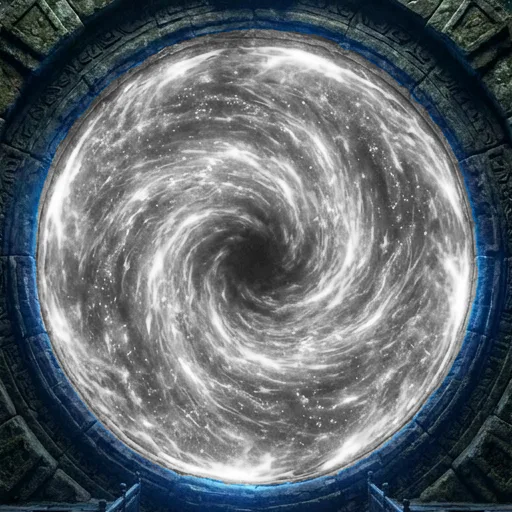
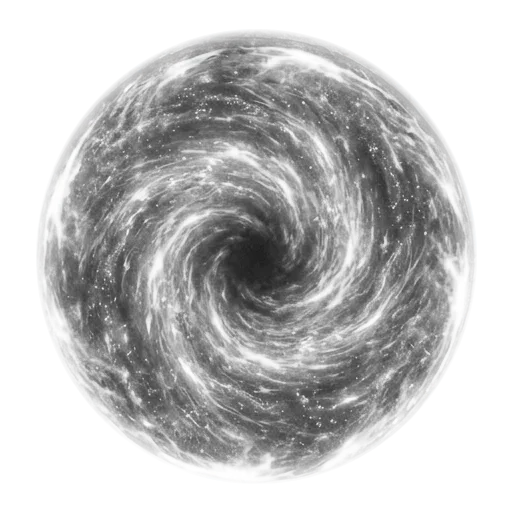
fix(portal-room): bake disc-edge alpha into vortex crops; add spaceship flyby
- The vortex overlay's CSS mask used radial-gradient(circle, ...) whose
  default size is farthest-corner, so the fade radius reached the crop's
  corners — the crop's baked-in blue rim and square bottom edge were
  never masked, leaving a blue band + hard bar under the bottom arc of
  every recolored portal (white/noir/red/orange/green/pink/purple).
- Fix: bake an elliptical alpha feather (rx 221 / ry 228, exactly at the
  disc edge) into the vortex webps themselves and drop the CSS mask.
  Blue keeps its raw square crop — its chamber is the untouched
  original, so the square blends invisibly. Crops are also ~25% smaller.
- New SpaceshipFlyby layer in PortalChamber: a tiny glowing ship
  silhouette drifts across the upper starfield every ~42s (28s pass +
  14s gap), with a faint teal engine trail. Rendered between the chamber
  and the vortex, scales with the fly-through, skipped entirely under
  prefers-reduced-motion.

diff --git a/src/components/portal/PortalChamber.tsx b/src/components/portal/PortalChamber.tsx
@@ -12,6 +12,40 @@ const VORTEX_CENTER = { x: 1346, y: 539 };
 
 const pct = (v: number, total: number) => `${(v / total) * 100}%`;
 
+/** A tiny ship silhouette that drifts across the distant starfield on a slow
+ *  loop — enough motion to make the chamber feel alive, never busy. The
+ *  flight path stays in the upper sky so it reads as far behind the gate. */
+function SpaceshipFlyby() {
+  return (
+    <motion.div
+      aria-hidden="true"
+      className="pointer-events-none absolute"
+      style={{ top: "11%", width: "3%", opacity: 0.55 }}
+      initial={{ left: "-5%" }}
+      animate={{ left: ["-5%", "105%"], y: [0, -10, 4, 0], rotate: -3 }}
+      transition={{
+        duration: 28,
+        ease: "linear",
+        repeat: Infinity,
+        repeatDelay: 14,
+      }}
+    >
+      <svg viewBox="-16 0 80 20" className="h-auto w-full">
+        <defs>
+          <linearGradient id="ship-trail" x1="0" y1="0" x2="1" y2="0">
+            <stop offset="0" stopColor="#62f3e4" stopOpacity="0" />
+            <stop offset="1" stopColor="#62f3e4" stopOpacity="0.8" />
+          </linearGradient>
+        </defs>
+        <rect x="-16" y="10.4" width="18" height="1.4" rx="0.7" fill="url(#ship-trail)" />
+        <path d="M2 12 L40 8 L60 11 L40 15 Z" fill="#aebfc9" opacity="0.9" />
+        <path d="M38 9 L46 3.5 L50 9.5 Z" fill="#8fa3ad" opacity="0.85" />
+        <circle cx="53" cy="11" r="1.5" fill="#d7fbf6" />
+      </svg>
+    </motion.div>
+  );
+}
+
 type Props = {
   album: PortalAlbum;
   flying: boolean;
@@ -61,6 +95,9 @@ export function PortalChamber({ album, flying, reducedMotion }: Props) {
           />
         </AnimatePresence>
 
+        {/* Ambient life: a distant ship crossing the upper starfield. */}
+        {!reducedMotion && <SpaceshipFlyby />}
+
         {/* Vortex energy — crossfades with the chamber between portals. */}
         <AnimatePresence>
           <motion.img
@@ -78,10 +115,9 @@ export function PortalChamber({ album, flying, reducedMotion }: Props) {
               top: pct(VORTEX_CROP.y, PLATE.h),
               width: pct(VORTEX_CROP.size, PLATE.w),
               height: pct(VORTEX_CROP.size, PLATE.h),
-              // Fade out at the disc edge (r≈89% of the crop) so the crop's
-              // baked-in blue rim never covers the chamber's recolored rim.
-              maskImage: "radial-gradient(circle, #000 74%, transparent 88%)",
-              WebkitMaskImage: "radial-gradient(circle, #000 74%, transparent 88%)",
+              // The disc-edge feather is baked into the webp's alpha channel
+              // (elliptical, exactly at the disc edge) — CSS masks proved
+              // unreliable here (radial-gradient sizes to farthest-corner).
             }}
           />
         </AnimatePresence>

diff --git a/CLAUDE.md b/CLAUDE.md
@@ -166,7 +166,7 @@ CRUD for albums/tracks/artists/instrumentals/discounts; WAV vault streaming (5mi
 16. **Desktop Now Playing screen** — Full-screen overlay toggled by `store.fullScreenOpen`. Opened from the PlayerBar "Now Playing" button (desktop) or the track info area (mobile). Displays album art, accent-themed gradient background, waveform, lyrics toggle, and queue drawer.
 17. **Album detail modals** — `AlbumDetail` has two accent-colored modals: (a) **Credits modal** — `BookOpen` button, only rendered when the album has credits; shows all production credits per track. (b) **Media gallery modal** — `Images` button always visible; lazy-fetches `GET /api/albums/[slug]/media` on first open; `AlbumMediaGallery` component supports swipe, keyboard nav, thumbnail strip, and captions. Both modals use the album's `accentColor` for borders, glows, and accent bars.
 18. **Album media admin** — `AlbumsManager` has a "Media" button per album row that fetches existing entries from `GET /api/admin/album-media?album_id=` and opens `AlbumMediaManager` inline. Upload via Cloudinary; drag-to-reorder; delete. Media stored in `album_media` table.
-19. **Portal Room landing (`/`)** — Immersive stargate-chamber landing experience built from pre-rendered art (no WebGL). `page.tsx` fetches published albums server-side, validates them through `toPortalAlbums()` (`src/lib/portalData.ts` — hex-color validation, cover via `getAlbumCover(cover, 1024)`, drops albums without covers, assigns each album a vortex plate via `nearestVortex(accentColor)` hue matching), and renders `PortalRoomClient` (`src/components/portal/`). **Assets** (`public/portals/`): `chamber-{blue,red,orange,green,purple,pink,mono}.webp` are 2048px widescreen chamber plates — the original 928×1152 "Portals" art generatively expanded to 2688×1152 with Adobe Firefly (exact original center composited back), then per-color variants produced with the Adobe Photoshop API: a locally built mask (full platform below the machinery horizon + blue-glow-selective band over the ring/dome) drives a masked HSL hue rotation so the platform's hue and light reflections match each portal's energy color (mono = desaturated, shared by gray/noir/white vortices). Sky/ring pixels are bit-identical across variants. All nine source plates share a pixel-identical background; only the vortex disc differs, so `vortex-{blue,gray,green,noir,orange,pink,purple,red,white}.webp` are 512px crops of just that disc, layered at exact plate coordinates in `PortalChamber.tsx` with a radial-gradient mask feather. Asset paths come from `chamberAsset()`/`vortexAsset()` in `portalData.ts`. **Seamless transitions**: the chamber never moves — swiping crossfades the chamber plate (only its recolored bottom visibly changes), vortex energy, and floating album cover (framer-motion `AnimatePresence`), so portal-to-portal feels like the gateway retuning. Navigation: swipe (mobile, `@use-gesture/react`), arrows + ArrowLeft/Right keys + horizontal trackpad scroll (desktop); neighbor portal assets are pre-warmed with hidden `<img>`s. Tap/click the portal (or Enter Portal CTA) triggers a fly-through — the plate scales 5.5× into the vortex center (transform-origin at the vortex) under an accent-color energy fill — then routes to the existing `/album/[slug]` page; `prefers-reduced-motion` gets crossfades only. A11y: image layers are `aria-hidden`, `aria-live` announces "Title, portal N of M", 44px+ touch targets, visible focus rings. Active index persists in `?portal=` + sessionStorage so back-navigation restores the focused portal. Classic home (`HomeClient`) remains as the fallback when no album qualifies for a portal. PayPal, Supabase auth, and purchase APIs are untouched; no CSP changes were needed.
+19. **Portal Room landing (`/`)** — Immersive stargate-chamber landing experience built from pre-rendered art (no WebGL). `page.tsx` fetches published albums server-side, validates them through `toPortalAlbums()` (`src/lib/portalData.ts` — hex-color validation, cover via `getAlbumCover(cover, 1024)`, drops albums without covers, assigns each album a vortex plate via `nearestVortex(accentColor)` hue matching), and renders `PortalRoomClient` (`src/components/portal/`). **Assets** (`public/portals/`): `chamber-{blue,red,orange,green,purple,pink,mono}.webp` are 2048px widescreen chamber plates — the original 928×1152 "Portals" art generatively expanded to 2688×1152 with Adobe Firefly (exact original center composited back), then per-color variants produced with the Adobe Photoshop API: a locally built mask (full platform below the machinery horizon + blue-glow-selective band over the ring/dome) drives a masked HSL hue rotation so the platform's hue and light reflections match each portal's energy color (mono = desaturated, shared by gray/noir/white vortices). Sky/ring pixels are bit-identical across variants. All nine source plates share a pixel-identical background; only the vortex disc differs, so `vortex-{blue,gray,green,noir,orange,pink,purple,red,white}.webp` are 512px crops of just that disc, layered at exact plate coordinates in `PortalChamber.tsx` with an elliptical alpha feather baked into the webp at the disc edge (blue keeps the raw square crop since its chamber is the untouched original; CSS radial-gradient masks were removed — they size to farthest-corner and leaked the crop's blue rim). A `SpaceshipFlyby` layer drifts a tiny ship across the upper starfield on a slow loop (skipped under reduced motion). Asset paths come from `chamberAsset()`/`vortexAsset()` in `portalData.ts`. **Seamless transitions**: the chamber never moves — swiping crossfades the chamber plate (only its recolored bottom visibly changes), vortex energy, and floating album cover (framer-motion `AnimatePresence`), so portal-to-portal feels like the gateway retuning. Navigation: swipe (mobile, `@use-gesture/react`), arrows + ArrowLeft/Right keys + horizontal trackpad scroll (desktop); neighbor portal assets are pre-warmed with hidden `<img>`s. Tap/click the portal (or Enter Portal CTA) triggers a fly-through — the plate scales 5.5× into the vortex center (transform-origin at the vortex) under an accent-color energy fill — then routes to the existing `/album/[slug]` page; `prefers-reduced-motion` gets crossfades only. A11y: image layers are `aria-hidden`, `aria-live` announces "Title, portal N of M", 44px+ touch targets, visible focus rings. Active index persists in `?portal=` + sessionStorage so back-navigation restores the focused portal. Classic home (`HomeClient`) remains as the fallback when no album qualifies for a portal. PayPal, Supabase auth, and purchase APIs are untouched; no CSP changes were needed.
 20. **Album light mode** — per-album `light_mode` flag (DB column, defaults `false`), toggled from the admin `AlbumForm`. Flows through `mapAlbum` → `Album.lightMode`. `AlbumDetail` + `TrackRow` read shared theme tokens from `getAlbumTheme(light)` (`src/lib/albumTheme.ts`) to swap surfaces/text/borders between dark (default) and light; the album's `accentColor` is unchanged in both. Root exposes `--album-hover` CSS vars for child hover states. Media viewers (`AlbumCoverCarousel`, `AlbumMediaGallery`) stay dark by design.
 
 ---
